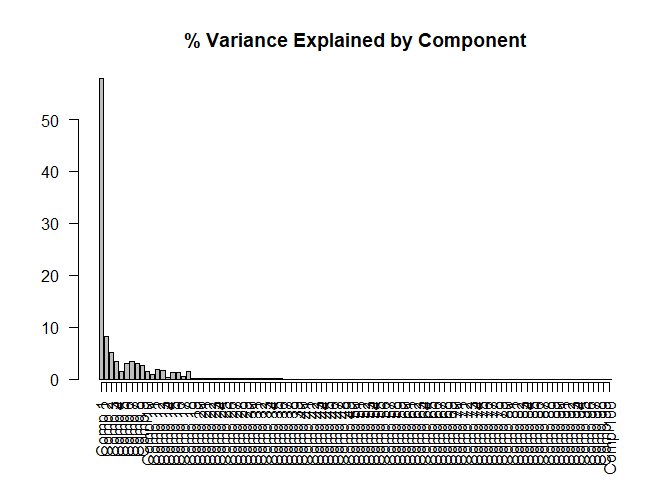
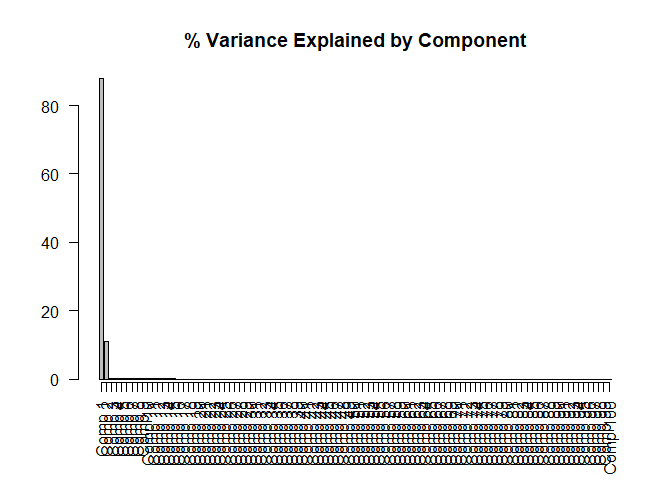
stashing code -- getting new data

diff --git a/pls_R/pls_analysis1.md b/pls_R/pls_analysis1.md
@@ -5,8 +5,11 @@ June 19, 2018
 
 ### Partial Least Squares (PLS) Analysis of NLCD data from SCBI
 
--   This doesn't split data into training and test sets
 -   Only focuses on predicting 3 NLCD classes: "DF", "EF", "SS"
+-   Min Band = 383.5343
+-   Max Band = 2511.8945
+-   5 nm increments
+-   Should remove noise in Bands: 191 to 212 and 281 to 314
 
 ``` r
 ## plot raw data
@@ -20,26 +23,28 @@ reflectance.plot = matplot(x = wavelengths, y = t(reflectance),lty=1,xlab="wavel
 ![](pls_analysis1_files/figure-markdown_github/unnamed-chunk-1-1.png)
 
 ``` r
+reflectance_train <- train[,c(11:ncol(train))]
 ## convert reflectance to a matrix, as this is what plsr() requires
-refl = as.matrix(reflectance)
-subdata$NLCD <- as.factor(subdata$NLCD)
+## >> REMOVE WATER VAPOR BAND << ## 
+refl_train = as.matrix(reflectance_train[,c(1:281, 314:ncol(reflectance_train))])
+train$NLCD <- as.factor(train$NLCD)
 
 ## convert NLCD character to factor first, then convert the factor to a numeric value so plsr() can analyze data
-NLCD_num <- as.matrix(as.numeric(as.factor(subdata$NLCD)),ncol=1) # make numeric matrix
+NLCD_num <- as.matrix(as.numeric(as.factor(train$NLCD)), ncol=1) # make numeric matrix
 
 ## run the model
-m1 <- plsr(NLCD_num ~ log(refl+1), ncomp = 100, validation = "CV")
+m1 <- plsr(NLCD_num ~ log(refl_train+1), ncomp = 100, validation = "CV")
 
 ## these are the numeric classes converted back to NLCD labels
-NLCD_back <-factor(NLCD_num, labels = levels(subdata$NLCD), levels = 1:3)
+NLCD_back <-factor(NLCD_num, labels = levels(train$NLCD), levels = 1:3)
 
 ## add predictions from the plsr() model
-subdata$pred_num_class <- predict(m1, ncomp = 25) # the output of this is an array, each column in the array is the predicted output for each principal component
+train$pred_num_class <- predict(m1, ncomp = 25) # the output of this is an array, each column in the array is the predicted output for each principal component
 #subdata$pred_fac_class <- round(subdata$pred_num_class)
 
 ## 1. take the mean prediction from the components (specified by 'ncomp') by applying mean() across a row
 ## 2. then round that mean, it represents a "vote" for the class value from each component
-confusion <- data.frame(actual = NLCD_num, predicted = round(apply(X = subdata$pred_num_class, 1, FUN = mean)))
+confusion <- data.frame(actual = NLCD_num, predicted = round(apply(X = train$pred_num_class, 1, FUN = mean)))
 
 # cross reference the actual class versus the predicted class
 crossRef <- table(confusion)
@@ -47,7 +52,8 @@ crossRef <- table(confusion)
 
 ### Total Components Selected
 
--   The root mean squared error "RMSE" plot shows that ~25 principal components returns the lowest amount of error, thus all following graphs and confusion tables use 25 PCs
+-   The "full data set" (no split between test and training) root mean squared error "RMSE" plot shows that ~25 principal components returns the lowest amount of error, thus all following graphs and confusion tables use 25 PCs
+-   Doing an 80/20 training/testing split returns closer to 10 PCs
 
 ``` r
 barplot(explvar(m1), axis.lty = 1, las = 2, main = "% Variance Explained by Component")
@@ -61,10 +67,11 @@ plot(RMSEP(m1), legendpos = "topright", main = "Validation Error")
 
 ![](pls_analysis1_files/figure-markdown_github/unnamed-chunk-3-2.png)
 
-### Loadings for 25 Components - untransformed Y and X
+### Loadings for 10 Components - untransformed Y and X
 
 ``` r
-loadingplot(m1, comps = 1:25, legendpos = -1, labels = c(1:426), xlab = "Band")
+loadingplot(m1, comps = 1:10, legendpos = -1, labels = c(1:426), xlab = "Band")
+abline(h=0)
 ```
 
 ![](pls_analysis1_files/figure-markdown_github/unnamed-chunk-4-1.png)
@@ -88,28 +95,84 @@ if (ncol(crossRef != length(unique(NLCD_num)))){
     ## 
     ##       predicted
     ## actual   1   2   3
-    ##      1 208  82   1
-    ##      2   1  25  11
-    ##      3   0 100  58
+    ##      1 189  37   0
+    ##      2   1  26   7
+    ##      3   0  34  89
     ## 
     ## Overall Statistics
-    ##                                         
-    ##                Accuracy : 0.599         
-    ##                  95% CI : (0.554, 0.643)
-    ##     No Information Rate : 0.43          
-    ##     P-Value [Acc > NIR] : 5.81e-14      
-    ##                                         
-    ##                   Kappa : 0.395         
-    ##  Mcnemar's Test P-Value : < 2e-16       
+    ##                                        
+    ##                Accuracy : 0.794        
+    ##                  95% CI : (0.75, 0.833)
+    ##     No Information Rate : 0.496        
+    ##     P-Value [Acc > NIR] : <2e-16       
+    ##                                        
+    ##                   Kappa : 0.659        
+    ##  Mcnemar's Test P-Value : NA           
     ## 
     ## Statistics by Class:
     ## 
     ##                      Class: 1 Class: 2 Class: 3
-    ## Sensitivity             0.995   0.1208    0.829
-    ## Specificity             0.700   0.9570    0.760
-    ## Pos Pred Value          0.715   0.6757    0.367
-    ## Neg Pred Value          0.995   0.5947    0.963
-    ## Prevalence              0.430   0.4259    0.144
-    ## Detection Rate          0.428   0.0514    0.119
-    ## Detection Prevalence    0.599   0.0761    0.325
-    ## Balanced Accuracy       0.848   0.5389    0.794
+    ## Sensitivity             0.995   0.2680    0.927
+    ## Specificity             0.808   0.9720    0.882
+    ## Pos Pred Value          0.836   0.7647    0.724
+    ## Neg Pred Value          0.994   0.7966    0.973
+    ## Prevalence              0.496   0.2533    0.251
+    ## Detection Rate          0.493   0.0679    0.232
+    ## Detection Prevalence    0.590   0.0888    0.321
+    ## Balanced Accuracy       0.902   0.6200    0.904
+
+Validate on Test Data
+---------------------
+
+``` r
+reflectance_test <- test[,c(11:ncol(test))]
+## convert reflectance to a matrix, as this is what plsr() requires
+## >> REMOVE WATER VAPOR BAND << ## 
+refl_test = as.matrix(reflectance_test[,c(1:281, 314:ncol(reflectance_test))])
+test$NLCD <- as.factor(test$NLCD)
+
+## convert NLCD character to factor first, then convert the factor to a numeric value so plsr() can analyze data
+NLCD_num_test <- as.matrix(as.numeric(as.factor(test$NLCD)), ncol=1) # make numeric matrix
+
+## add predictions from the plsr() model
+testpred <- predict(m1, ncomp = 10, newdata = refl_test) # the output of this is an array, each column in the array is the predicted output for each principal component
+#subdata$pred_fac_class <- round(subdata$pred_num_class)
+
+## 1. take the mean prediction from the components (specified by 'ncomp') by applying mean() across a row
+## 2. then round that mean, it represents a "vote" for the class value from each component
+confusion <- data.frame(actual = NLCD_num_test, predicted = round(testpred))
+
+# cross reference the actual class versus the predicted class
+crossRef <- table(confusion)
+caret::confusionMatrix(crossRef[,c(2:4)])
+```
+
+    ## Confusion Matrix and Statistics
+    ## 
+    ##       NLCD_num.10.comps
+    ## actual  1  2  3
+    ##      1 23 26  8
+    ##      2  0  1  1
+    ##      3  0 12 17
+    ## 
+    ## Overall Statistics
+    ##                                         
+    ##                Accuracy : 0.466         
+    ##                  95% CI : (0.359, 0.575)
+    ##     No Information Rate : 0.443         
+    ##     P-Value [Acc > NIR] : 0.372         
+    ##                                         
+    ##                   Kappa : 0.262         
+    ##  Mcnemar's Test P-Value : 2.12e-09      
+    ## 
+    ## Statistics by Class:
+    ## 
+    ##                      Class: 1 Class: 2 Class: 3
+    ## Sensitivity             1.000   0.0256    0.654
+    ## Specificity             0.477   0.9796    0.806
+    ## Pos Pred Value          0.404   0.5000    0.586
+    ## Neg Pred Value          1.000   0.5581    0.847
+    ## Prevalence              0.261   0.4432    0.295
+    ## Detection Rate          0.261   0.0114    0.193
+    ## Detection Prevalence    0.648   0.0227    0.330
+    ## Balanced Accuracy       0.738   0.5026    0.730
